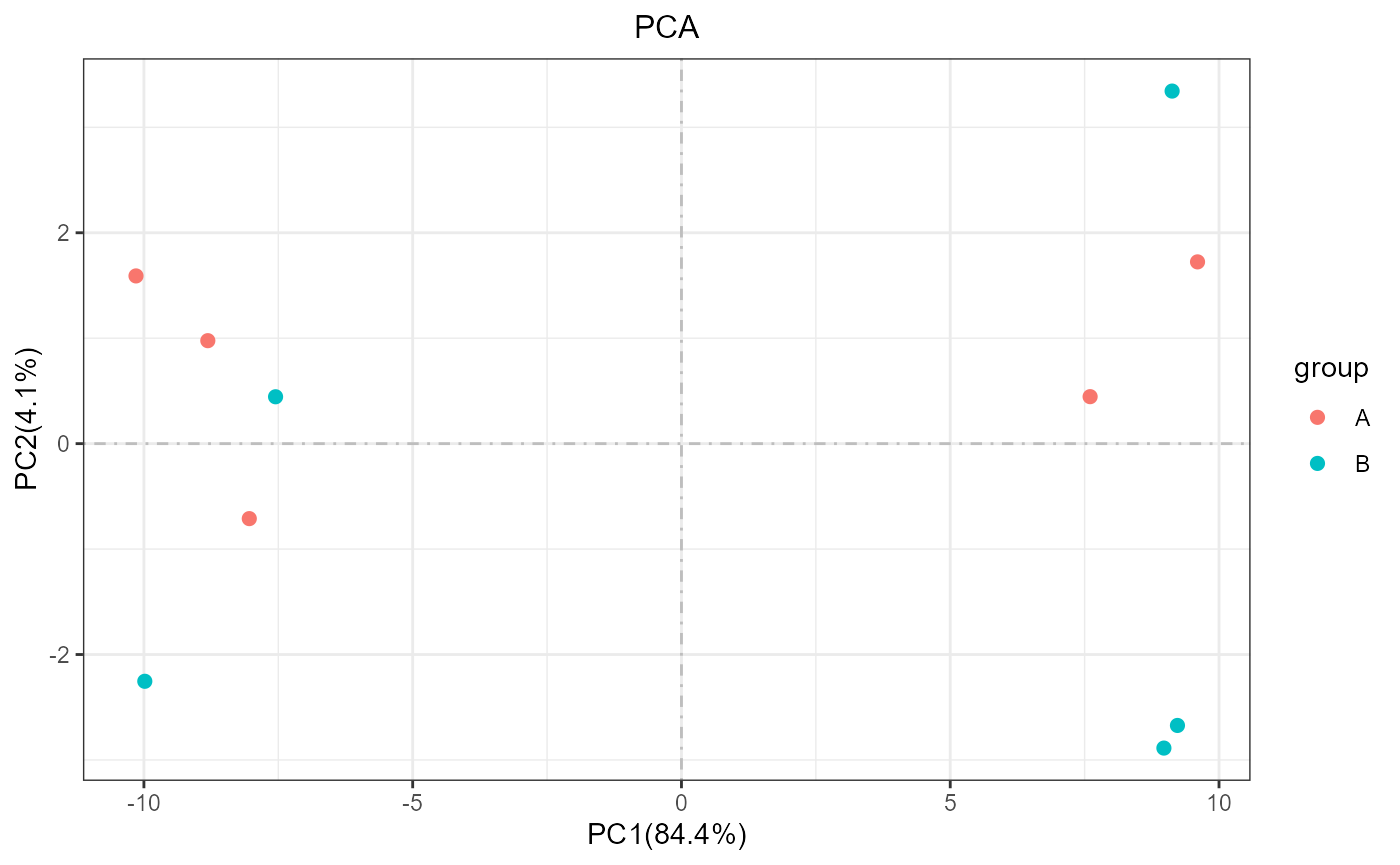
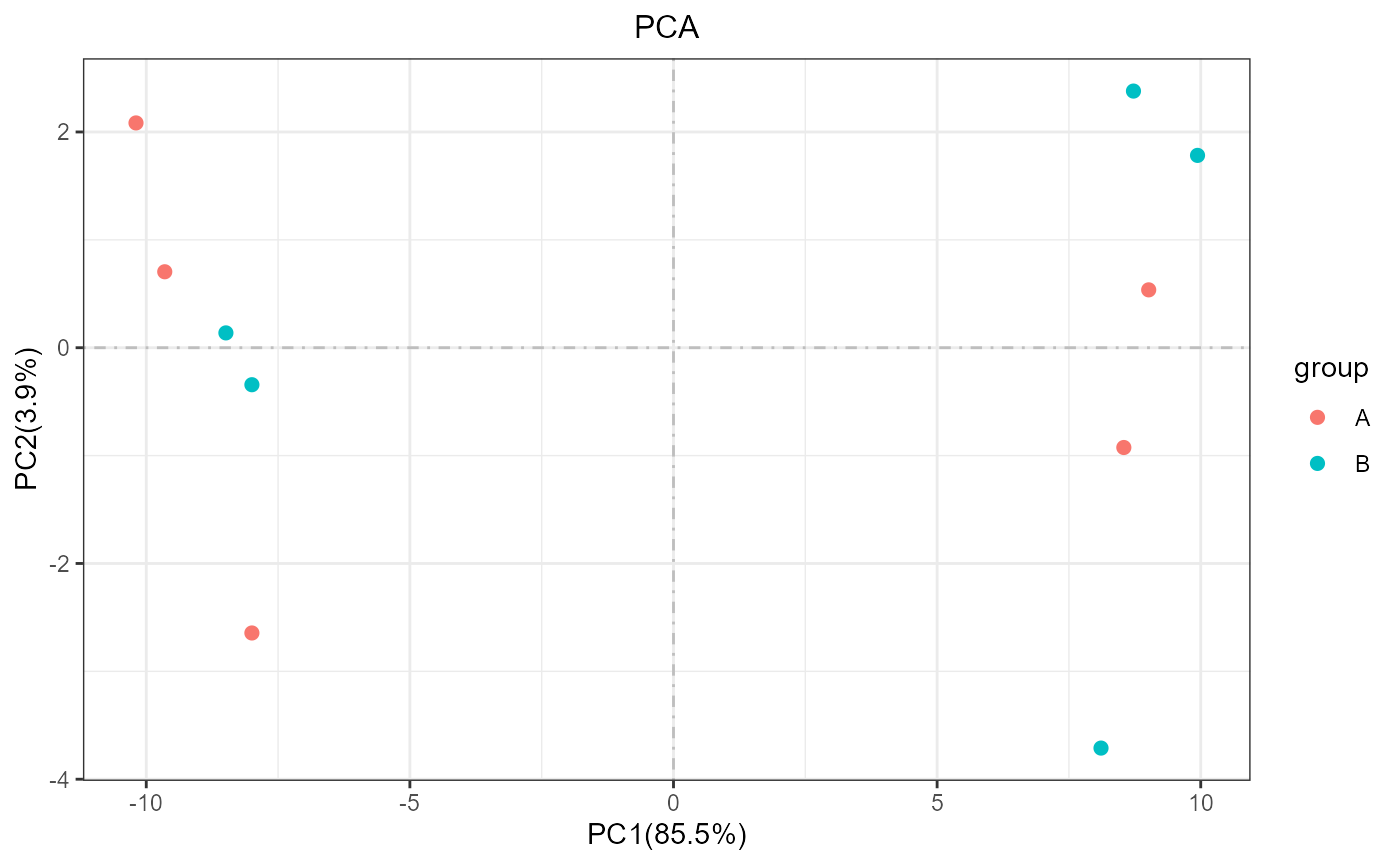
add the website by pkgdown

diff --git a/docs/articles/autopca.html b/docs/articles/autopca.html
@@ -6,6 +6,12 @@
 <meta http-equiv="X-UA-Compatible" content="IE=edge">
 <meta name="viewport" content="width=device-width, initial-scale=1.0">
 <title>autopca • autopca</title>
+<!-- favicons --><link rel="icon" type="image/png" sizes="16x16" href="../favicon-16x16.png">
+<link rel="icon" type="image/png" sizes="32x32" href="../favicon-32x32.png">
+<link rel="apple-touch-icon" type="image/png" sizes="180x180" href="../apple-touch-icon.png">
+<link rel="apple-touch-icon" type="image/png" sizes="120x120" href="../apple-touch-icon-120x120.png">
+<link rel="apple-touch-icon" type="image/png" sizes="76x76" href="../apple-touch-icon-76x76.png">
+<link rel="apple-touch-icon" type="image/png" sizes="60x60" href="../apple-touch-icon-60x60.png">
 <!-- jquery --><script src="https://cdnjs.cloudflare.com/ajax/libs/jquery/3.4.1/jquery.min.js" integrity="sha256-CSXorXvZcTkaix6Yvo6HppcZGetbYMGWSFlBw8HfCJo=" crossorigin="anonymous"></script><!-- Bootstrap --><link rel="stylesheet" href="https://cdnjs.cloudflare.com/ajax/libs/twitter-bootstrap/3.4.1/css/bootstrap.min.css" integrity="sha256-bZLfwXAP04zRMK2BjiO8iu9pf4FbLqX6zitd+tIvLhE=" crossorigin="anonymous">
 <script src="https://cdnjs.cloudflare.com/ajax/libs/twitter-bootstrap/3.4.1/js/bootstrap.min.js" integrity="sha256-nuL8/2cJ5NDSSwnKD8VqreErSWHtnEP9E7AySL+1ev4=" crossorigin="anonymous"></script><!-- bootstrap-toc --><link rel="stylesheet" href="../bootstrap-toc.css">
 <script src="../bootstrap-toc.js"></script><!-- Font Awesome icons --><link rel="stylesheet" href="https://cdnjs.cloudflare.com/ajax/libs/font-awesome/5.12.1/css/all.min.css" integrity="sha256-mmgLkCYLUQbXn0B1SRqzHar6dCnv9oZFPEC1g1cwlkk=" crossorigin="anonymous">
@@ -133,7 +139,7 @@ sample_group必须是tibble，要提取第二列</li>
 <span class="co">#&gt; 6          5.4         3.9          1.7         0.4  setosa</span></code></pre></div>
 <p>the rownames is every iris ID number, in iris, we want to demonstrate the proportion of each iris flower in terms of petal length and width and so on. That is we want, so for iris data, we just tidy a little for next analysis. Just like</p>
 <div class="sourceCode" id="cb3"><pre class="downlit sourceCode r">
-<code class="sourceCode R"><span class="kw"><a href="https://rdrr.io/r/base/library.html">library</a></span><span class="op">(</span><span class="va">autopca</span><span class="op">)</span>
+<code class="sourceCode R"><span class="kw"><a href="https://rdrr.io/r/base/library.html">library</a></span><span class="op">(</span><span class="va"><a href="https://wangjiaxuan666.github.io/autopca/">autopca</a></span><span class="op">)</span>
 <span class="co">#&gt; Registered S3 methods overwritten by 'ggalt':</span>
 <span class="co">#&gt;   method                  from   </span>
 <span class="co">#&gt;   grid.draw.absoluteGrob  ggplot2</span>
@@ -163,20 +169,20 @@ sample_group必须是tibble，要提取第二列</li>
 <span class="va">annot</span> <span class="op">&lt;-</span> <span class="fu"><a href="https://rdrr.io/r/base/c.html">c</a></span><span class="op">(</span><span class="fu"><a href="https://rdrr.io/r/base/rep.html">rep</a></span><span class="op">(</span><span class="st">"KEGG"</span>,<span class="fl">20</span><span class="op">)</span><span class="op">)</span>
 <span class="va">test</span> <span class="op">&lt;-</span> <span class="fu"><a href="https://rdrr.io/r/base/data.frame.html">data.frame</a></span><span class="op">(</span><span class="va">test</span>,<span class="va">annot</span><span class="op">)</span>
 <span class="fu"><a href="https://rdrr.io/r/utils/head.html">head</a></span><span class="op">(</span><span class="va">test</span><span class="op">)</span>
-<span class="co">#&gt;          Test1       Test2    Test3      Test4    Test5       Test6    Test7</span>
-<span class="co">#&gt; Gene1 4.291649  1.70574277 3.498262 -1.1874693 3.783874  0.05649316 3.391127</span>
-<span class="co">#&gt; Gene2 2.798869  0.64610490 2.594259 -1.5175268 2.351683 -1.74398649 4.618995</span>
-<span class="co">#&gt; Gene3 3.102504 -0.11499333 2.962186  0.1293812 3.392990 -1.30583740 3.024271</span>
-<span class="co">#&gt; Gene4 2.252334  0.47421214 2.546950 -1.6591297 4.725885 -1.66804499 3.216001</span>
-<span class="co">#&gt; Gene5 3.418433 -2.18411612 3.542779 -1.0304116 2.273971  0.02952300 1.938294</span>
-<span class="co">#&gt; Gene6 3.265256 -0.07776028 2.592512  0.2704961 4.317028 -0.60049798 3.417487</span>
-<span class="co">#&gt;            Test8    Test9     Test10 annot</span>
-<span class="co">#&gt; Gene1 -1.5181951 2.990443  0.7996601  KEGG</span>
-<span class="co">#&gt; Gene2  0.2909972 2.060165 -1.1016041  KEGG</span>
-<span class="co">#&gt; Gene3 -0.8010135 1.216073 -0.4500526  KEGG</span>
-<span class="co">#&gt; Gene4  1.0743875 3.979830  1.2794754  KEGG</span>
-<span class="co">#&gt; Gene5 -0.3119841 2.140349 -0.3129934  KEGG</span>
-<span class="co">#&gt; Gene6  0.6315125 1.964468  0.5889670  KEGG</span></code></pre></div>
+<span class="co">#&gt;          Test1      Test2    Test3       Test4    Test5       Test6    Test7</span>
+<span class="co">#&gt; Gene1 2.761865  0.8093437 2.910835 -0.55147314 2.981818  0.02986831 4.129516</span>
+<span class="co">#&gt; Gene2 3.012029  0.2021364 3.942120 -0.86557071 2.520596 -0.09600088 4.105236</span>
+<span class="co">#&gt; Gene3 3.235702  0.7171295 3.183174  0.23735420 3.525561  0.16928179 2.087716</span>
+<span class="co">#&gt; Gene4 0.271937 -0.8826715 2.974717 -0.02381401 3.313966 -0.80815937 3.299509</span>
+<span class="co">#&gt; Gene5 2.362170 -0.6089130 2.956533  0.84591955 3.793431  0.42218541 2.099652</span>
+<span class="co">#&gt; Gene6 3.980563 -1.0260322 2.403059 -1.79870458 2.678419  0.72724774 4.036874</span>
+<span class="co">#&gt;            Test8     Test9      Test10 annot</span>
+<span class="co">#&gt; Gene1 -0.3989877 2.9838882  1.17049329  KEGG</span>
+<span class="co">#&gt; Gene2  0.5989962 3.2255002 -0.87599396  KEGG</span>
+<span class="co">#&gt; Gene3 -0.5064056 3.6695715 -1.13876272  KEGG</span>
+<span class="co">#&gt; Gene4  1.0387806 3.2897270 -0.82772528  KEGG</span>
+<span class="co">#&gt; Gene5  0.3580267 3.7299110  0.15643901  KEGG</span>
+<span class="co">#&gt; Gene6 -1.7581223 0.9057865 -0.09497354  KEGG</span></code></pre></div>
 <p>Through the above steps, we obtained a classic transcriptome data frame. <strong>NOW WE explain the sample variance in PC. So we need tidy the data by the function<code>pca_data_tidy</code>.</strong></p>
 <div class="sourceCode" id="cb6"><pre class="downlit sourceCode r">
 <code class="sourceCode R"><span class="fu"><a href="../reference/pca_data_tidy.html">pca_data_tidy</a></span><span class="op">(</span><span class="fu"><a href="https://rdrr.io/r/base/as.data.frame.html">as.data.frame</a></span><span class="op">(</span><span class="va">test</span><span class="op">)</span><span class="op">)</span> <span class="op">-&gt;</span> <span class="va">test_tidy</span>

diff --git a/docs/news/index.html b/docs/news/index.html
@@ -6,15 +6,15 @@
 <meta http-equiv="X-UA-Compatible" content="IE=edge">
 <meta name="viewport" content="width=device-width, initial-scale=1.0">
 
-<title>License • autopca</title>
+<title>Changelog • autopca</title>
 
 <!-- favicons -->
-<link rel="icon" type="image/png" sizes="16x16" href="favicon-16x16.png">
-<link rel="icon" type="image/png" sizes="32x32" href="favicon-32x32.png">
-<link rel="apple-touch-icon" type="image/png" sizes="180x180" href="apple-touch-icon.png" />
-<link rel="apple-touch-icon" type="image/png" sizes="120x120" href="apple-touch-icon-120x120.png" />
-<link rel="apple-touch-icon" type="image/png" sizes="76x76" href="apple-touch-icon-76x76.png" />
-<link rel="apple-touch-icon" type="image/png" sizes="60x60" href="apple-touch-icon-60x60.png" />
+<link rel="icon" type="image/png" sizes="16x16" href="../favicon-16x16.png">
+<link rel="icon" type="image/png" sizes="32x32" href="../favicon-32x32.png">
+<link rel="apple-touch-icon" type="image/png" sizes="180x180" href="../apple-touch-icon.png" />
+<link rel="apple-touch-icon" type="image/png" sizes="120x120" href="../apple-touch-icon-120x120.png" />
+<link rel="apple-touch-icon" type="image/png" sizes="76x76" href="../apple-touch-icon-76x76.png" />
+<link rel="apple-touch-icon" type="image/png" sizes="60x60" href="../apple-touch-icon-60x60.png" />
 
 <!-- jquery -->
 <script src="https://cdnjs.cloudflare.com/ajax/libs/jquery/3.4.1/jquery.min.js" integrity="sha256-CSXorXvZcTkaix6Yvo6HppcZGetbYMGWSFlBw8HfCJo=" crossorigin="anonymous"></script>
@@ -25,8 +25,8 @@
 <script src="https://cdnjs.cloudflare.com/ajax/libs/twitter-bootstrap/3.4.1/js/bootstrap.min.js" integrity="sha256-nuL8/2cJ5NDSSwnKD8VqreErSWHtnEP9E7AySL+1ev4=" crossorigin="anonymous"></script>
 
 <!-- bootstrap-toc -->
-<link rel="stylesheet" href="bootstrap-toc.css">
-<script src="bootstrap-toc.js"></script>
+<link rel="stylesheet" href="../bootstrap-toc.css">
+<script src="../bootstrap-toc.js"></script>
 
 <!-- Font Awesome icons -->
 <link rel="stylesheet" href="https://cdnjs.cloudflare.com/ajax/libs/font-awesome/5.12.1/css/all.min.css" integrity="sha256-mmgLkCYLUQbXn0B1SRqzHar6dCnv9oZFPEC1g1cwlkk=" crossorigin="anonymous" />
@@ -40,13 +40,13 @@
 <script src="https://cdnjs.cloudflare.com/ajax/libs/headroom/0.11.0/jQuery.headroom.min.js" integrity="sha256-ZX/yNShbjqsohH1k95liqY9Gd8uOiE1S4vZc+9KQ1K4=" crossorigin="anonymous"></script>
 
 <!-- pkgdown -->
-<link href="pkgdown.css" rel="stylesheet">
-<script src="pkgdown.js"></script>
+<link href="../pkgdown.css" rel="stylesheet">
+<script src="../pkgdown.js"></script>
 
 
 
 
-<meta property="og:title" content="License" />
+<meta property="og:title" content="Changelog" />
 
 
 
@@ -67,7 +67,7 @@
   </head>
 
   <body data-spy="scroll" data-target="#toc">
-    <div class="container template-title-body">
+    <div class="container template-news">
       <header>
       <div class="navbar navbar-default navbar-fixed-top" role="navigation">
   <div class="container">
@@ -79,7 +79,7 @@
         <span class="icon-bar"></span>
       </button>
       <span class="navbar-brand">
-        <a class="navbar-link" href="index.html">autopca</a>
+        <a class="navbar-link" href="../index.html">autopca</a>
         <span class="version label label-default" data-toggle="tooltip" data-placement="bottom" title="Released version">0.1.900</span>
       </span>
     </div>
@@ -87,13 +87,13 @@
     <div id="navbar" class="navbar-collapse collapse">
       <ul class="nav navbar-nav">
         <li>
-  <a href="articles/autopca.html">Get started</a>
+  <a href="../articles/autopca.html">Get started</a>
 </li>
 <li>
-  <a href="reference/index.html">Reference</a>
+  <a href="../reference/index.html">Reference</a>
 </li>
 <li>
-  <a href="news/index.html">Changelog</a>
+  <a href="../news/index.html">Changelog</a>
 </li>
       </ul>
       <ul class="nav navbar-nav navbar-right">
@@ -114,14 +114,11 @@
       </header>
 
 <div class="row">
-  <div class="contents col-md-9">
+  <div class="col-md-9 contents">
     <div class="page-header">
-      <h1>License</h1>
+      <h1 data-toc-skip>Changelog <small></small></h1>
+      <small>Source: <a href='https://github.com/wangjiaxuan666/autopca/blob/master/NEWS.md'><code>NEWS.md</code></a></small>
     </div>
-
-<pre>YEAR: 2020
-COPYRIGHT HOLDER: Jiaxuan Wang
-</pre>
 
   </div>
 
@@ -132,7 +129,6 @@ COPYRIGHT HOLDER: Jiaxuan Wang
   </div>
 
 </div>
-
 
 
       <footer>

diff --git a/docs/reference/pca.html b/docs/reference/pca.html
@@ -8,6 +8,13 @@
 
 <title>PCA plot — pca • autopca</title>
 
+<!-- favicons -->
+<link rel="icon" type="image/png" sizes="16x16" href="../favicon-16x16.png">
+<link rel="icon" type="image/png" sizes="32x32" href="../favicon-32x32.png">
+<link rel="apple-touch-icon" type="image/png" sizes="180x180" href="../apple-touch-icon.png" />
+<link rel="apple-touch-icon" type="image/png" sizes="120x120" href="../apple-touch-icon-120x120.png" />
+<link rel="apple-touch-icon" type="image/png" sizes="76x76" href="../apple-touch-icon-76x76.png" />
+<link rel="apple-touch-icon" type="image/png" sizes="60x60" href="../apple-touch-icon-60x60.png" />
 
 <!-- jquery -->
 <script src="https://cdnjs.cloudflare.com/ajax/libs/jquery/3.4.1/jquery.min.js" integrity="sha256-CSXorXvZcTkaix6Yvo6HppcZGetbYMGWSFlBw8HfCJo=" crossorigin="anonymous"></script>
@@ -201,7 +208,7 @@ example. the default is "polygon".</p></td>
     <p>a ggplot object</p>
 
     <h2 class="hasAnchor" id="examples"><a class="anchor" href="#examples"></a>Examples</h2>
-    <pre class="examples"><div class='input'><span class='kw'><a href='https://rdrr.io/r/base/library.html'>library</a></span><span class='op'>(</span><span class='va'>autopca</span><span class='op'>)</span>
+    <pre class="examples"><div class='input'><span class='kw'><a href='https://rdrr.io/r/base/library.html'>library</a></span><span class='op'>(</span><span class='va'><a href='https://wangjiaxuan666.github.io/autopca/'>autopca</a></span><span class='op'>)</span>
 <span class='fu'>pca</span><span class='op'>(</span><span class='va'>iris</span><span class='op'>[</span>,<span class='op'>-</span><span class='fl'>5</span><span class='op'>]</span>,sample_group <span class='op'>=</span> <span class='fu'><a href='https://rdrr.io/r/base/as.data.frame.html'>as.data.frame</a></span><span class='op'>(</span><span class='va'>iris</span><span class='op'>[</span>,<span class='fl'>5</span><span class='op'>]</span><span class='op'>)</span><span class='op'>)</span>
 </div><div class='img'><img src='pca-1.png' alt='' width='700' height='433' /></div><div class='input'><span class='fu'>pca</span><span class='op'>(</span><span class='va'>iris</span><span class='op'>[</span>,<span class='op'>-</span><span class='fl'>5</span><span class='op'>]</span>,sample_group <span class='op'>=</span> <span class='fu'><a href='https://rdrr.io/r/base/as.data.frame.html'>as.data.frame</a></span><span class='op'>(</span><span class='va'>iris</span><span class='op'>[</span>,<span class='fl'>5</span><span class='op'>]</span><span class='op'>)</span>,add_ploy <span class='op'>=</span> <span class='st'>"ellipse"</span><span class='op'>)</span>
 </div><div class='img'><img src='pca-2.png' alt='' width='700' height='433' /></div><div class='input'><span class='fu'>pca</span><span class='op'>(</span><span class='va'>iris</span><span class='op'>[</span>,<span class='op'>-</span><span class='fl'>5</span><span class='op'>]</span>,sample_group <span class='op'>=</span> <span class='fu'><a href='https://rdrr.io/r/base/as.data.frame.html'>as.data.frame</a></span><span class='op'>(</span><span class='va'>iris</span><span class='op'>[</span>,<span class='fl'>5</span><span class='op'>]</span><span class='op'>)</span>,add_ploy <span class='op'>=</span> <span class='st'>"encircle"</span><span class='op'>)</span>

diff --git a/docs/index.html b/docs/index.html
@@ -6,6 +6,12 @@
 <meta http-equiv="X-UA-Compatible" content="IE=edge">
 <meta name="viewport" content="width=device-width, initial-scale=1.0">
 <title>the packages created for draw pca plot more easily. • autopca</title>
+<!-- favicons --><link rel="icon" type="image/png" sizes="16x16" href="favicon-16x16.png">
+<link rel="icon" type="image/png" sizes="32x32" href="favicon-32x32.png">
+<link rel="apple-touch-icon" type="image/png" sizes="180x180" href="apple-touch-icon.png">
+<link rel="apple-touch-icon" type="image/png" sizes="120x120" href="apple-touch-icon-120x120.png">
+<link rel="apple-touch-icon" type="image/png" sizes="76x76" href="apple-touch-icon-76x76.png">
+<link rel="apple-touch-icon" type="image/png" sizes="60x60" href="apple-touch-icon-60x60.png">
 <!-- jquery --><script src="https://cdnjs.cloudflare.com/ajax/libs/jquery/3.4.1/jquery.min.js" integrity="sha256-CSXorXvZcTkaix6Yvo6HppcZGetbYMGWSFlBw8HfCJo=" crossorigin="anonymous"></script><!-- Bootstrap --><link rel="stylesheet" href="https://cdnjs.cloudflare.com/ajax/libs/twitter-bootstrap/3.4.1/css/bootstrap.min.css" integrity="sha256-bZLfwXAP04zRMK2BjiO8iu9pf4FbLqX6zitd+tIvLhE=" crossorigin="anonymous">
 <script src="https://cdnjs.cloudflare.com/ajax/libs/twitter-bootstrap/3.4.1/js/bootstrap.min.js" integrity="sha256-nuL8/2cJ5NDSSwnKD8VqreErSWHtnEP9E7AySL+1ev4=" crossorigin="anonymous"></script><!-- bootstrap-toc --><link rel="stylesheet" href="bootstrap-toc.css">
 <script src="bootstrap-toc.js"></script><!-- Font Awesome icons --><link rel="stylesheet" href="https://cdnjs.cloudflare.com/ajax/libs/font-awesome/5.12.1/css/all.min.css" integrity="sha256-mmgLkCYLUQbXn0B1SRqzHar6dCnv9oZFPEC1g1cwlkk=" crossorigin="anonymous">
@@ -107,7 +113,7 @@
 <span class="co">#&gt; 6          5.4         3.9          1.7         0.4  setosa</span></code></pre></div>
 <p>the rownames is every iris ID number, in iris, we want to demonstrate the proportion of each iris flower in terms of petal length and width and so on. That is we want, so for iris data, we just tidy a little for next analysis. Just like</p>
 <div class="sourceCode" id="cb3"><pre class="downlit sourceCode r">
-<code class="sourceCode R"><span class="kw"><a href="https://rdrr.io/r/base/library.html">library</a></span><span class="op">(</span><span class="va">autopca</span><span class="op">)</span>
+<code class="sourceCode R"><span class="kw"><a href="https://rdrr.io/r/base/library.html">library</a></span><span class="op">(</span><span class="va"><a href="https://wangjiaxuan666.github.io/autopca/">autopca</a></span><span class="op">)</span>
 <span class="kw"><a href="https://rdrr.io/r/base/library.html">library</a></span><span class="op">(</span><span class="va"><a href="https://patchwork.data-imaginist.com">patchwork</a></span><span class="op">)</span>
 <span class="va">irisgroup</span> <span class="op">&lt;-</span> <span class="va">iris</span><span class="op">[</span>,<span class="fl">5</span><span class="op">]</span> 
 <span class="va">iristidy</span> <span class="op">&lt;-</span> <span class="va">iris</span><span class="op">[</span>,<span class="op">-</span><span class="fl">5</span><span class="op">]</span>

diff --git a/docs/reference/index.html b/docs/reference/index.html
@@ -8,6 +8,13 @@
 
 <title>Function reference • autopca</title>
 
+<!-- favicons -->
+<link rel="icon" type="image/png" sizes="16x16" href="../favicon-16x16.png">
+<link rel="icon" type="image/png" sizes="32x32" href="../favicon-32x32.png">
+<link rel="apple-touch-icon" type="image/png" sizes="180x180" href="../apple-touch-icon.png" />
+<link rel="apple-touch-icon" type="image/png" sizes="120x120" href="../apple-touch-icon-120x120.png" />
+<link rel="apple-touch-icon" type="image/png" sizes="76x76" href="../apple-touch-icon-76x76.png" />
+<link rel="apple-touch-icon" type="image/png" sizes="60x60" href="../apple-touch-icon-60x60.png" />
 
 <!-- jquery -->
 <script src="https://cdnjs.cloudflare.com/ajax/libs/jquery/3.4.1/jquery.min.js" integrity="sha256-CSXorXvZcTkaix6Yvo6HppcZGetbYMGWSFlBw8HfCJo=" crossorigin="anonymous"></script>
@@ -123,8 +130,27 @@
     <tbody>
       <tr>
         <th colspan="2">
-          <h2 id="section-all-functions" class="hasAnchor"><a href="#section-all-functions" class="anchor"></a>All functions</h2>
-          <p class="section-desc"></p>
+          <h2 id="section-tidy-data" class="hasAnchor"><a href="#section-tidy-data" class="anchor"></a>Tidy data</h2>
+          <p class="section-desc"><p>Transform the data form expression data(column:sample and row:gene) to a transpose matrix(column:gene,row:sample)</p></p>
+        </th>
+      </tr>
+      
+      
+    </tbody><tbody>
+      
+      
+      <tr>
+        
+        <td>
+          <p><code><a href="pca_data_tidy.html">pca_data_tidy()</a></code> </p>
+        </td>
+        <td><p>the Principal Components Analysis need the data must be transformed</p></td>
+      </tr>
+    </tbody><tbody>
+      <tr>
+        <th colspan="2">
+          <h2 id="section-plot" class="hasAnchor"><a href="#section-plot" class="anchor"></a>Plot</h2>
+          <p class="section-desc"><p>draw the plot one step</p></p>
         </th>
       </tr>
       
@@ -138,12 +164,6 @@
           <p><code><a href="pca.html">pca()</a></code> </p>
         </td>
         <td><p>PCA plot</p></td>
-      </tr><tr>
-        
-        <td>
-          <p><code><a href="pca_data_tidy.html">pca_data_tidy()</a></code> </p>
-        </td>
-        <td><p>the Principal Components Analysis need the data must be transformed</p></td>
       </tr>
     </tbody>
     </table>

diff --git a/docs/articles/index.html b/docs/articles/index.html
@@ -8,6 +8,13 @@
 
 <title>Articles • autopca</title>
 
+<!-- favicons -->
+<link rel="icon" type="image/png" sizes="16x16" href="../favicon-16x16.png">
+<link rel="icon" type="image/png" sizes="32x32" href="../favicon-32x32.png">
+<link rel="apple-touch-icon" type="image/png" sizes="180x180" href="../apple-touch-icon.png" />
+<link rel="apple-touch-icon" type="image/png" sizes="120x120" href="../apple-touch-icon-120x120.png" />
+<link rel="apple-touch-icon" type="image/png" sizes="76x76" href="../apple-touch-icon-76x76.png" />
+<link rel="apple-touch-icon" type="image/png" sizes="60x60" href="../apple-touch-icon-60x60.png" />
 
 <!-- jquery -->
 <script src="https://cdnjs.cloudflare.com/ajax/libs/jquery/3.4.1/jquery.min.js" integrity="sha256-CSXorXvZcTkaix6Yvo6HppcZGetbYMGWSFlBw8HfCJo=" crossorigin="anonymous"></script>
@@ -113,7 +120,7 @@
     </div>
 
     <div class="section ">
-      <h3>All vignettes</h3>
+      <h3>Vignettes</h3>
       <p class="section-desc"></p>
 
       <dl>

diff --git a/docs/reference/pca_data_tidy.html b/docs/reference/pca_data_tidy.html
@@ -8,6 +8,13 @@
 
 <title>the Principal Components Analysis need the data must be transformed — pca_data_tidy • autopca</title>
 
+<!-- favicons -->
+<link rel="icon" type="image/png" sizes="16x16" href="../favicon-16x16.png">
+<link rel="icon" type="image/png" sizes="32x32" href="../favicon-32x32.png">
+<link rel="apple-touch-icon" type="image/png" sizes="180x180" href="../apple-touch-icon.png" />
+<link rel="apple-touch-icon" type="image/png" sizes="120x120" href="../apple-touch-icon-120x120.png" />
+<link rel="apple-touch-icon" type="image/png" sizes="76x76" href="../apple-touch-icon-76x76.png" />
+<link rel="apple-touch-icon" type="image/png" sizes="60x60" href="../apple-touch-icon-60x60.png" />
 
 <!-- jquery -->
 <script src="https://cdnjs.cloudflare.com/ajax/libs/jquery/3.4.1/jquery.min.js" integrity="sha256-CSXorXvZcTkaix6Yvo6HppcZGetbYMGWSFlBw8HfCJo=" crossorigin="anonymous"></script>

diff --git a/docs/404.html b/docs/404.html
@@ -8,6 +8,13 @@
 
 <title>Page not found (404) • autopca</title>
 
+<!-- favicons -->
+<link rel="icon" type="image/png" sizes="16x16" href="favicon-16x16.png">
+<link rel="icon" type="image/png" sizes="32x32" href="favicon-32x32.png">
+<link rel="apple-touch-icon" type="image/png" sizes="180x180" href="apple-touch-icon.png" />
+<link rel="apple-touch-icon" type="image/png" sizes="120x120" href="apple-touch-icon-120x120.png" />
+<link rel="apple-touch-icon" type="image/png" sizes="76x76" href="apple-touch-icon-76x76.png" />
+<link rel="apple-touch-icon" type="image/png" sizes="60x60" href="apple-touch-icon-60x60.png" />
 
 <!-- jquery -->
 <script src="https://cdnjs.cloudflare.com/ajax/libs/jquery/3.4.1/jquery.min.js" integrity="sha256-CSXorXvZcTkaix6Yvo6HppcZGetbYMGWSFlBw8HfCJo=" crossorigin="anonymous"></script>

diff --git a/docs/LICENSE.html b/docs/LICENSE.html
@@ -8,6 +8,13 @@
 
 <title>MIT License • autopca</title>
 
+<!-- favicons -->
+<link rel="icon" type="image/png" sizes="16x16" href="favicon-16x16.png">
+<link rel="icon" type="image/png" sizes="32x32" href="favicon-32x32.png">
+<link rel="apple-touch-icon" type="image/png" sizes="180x180" href="apple-touch-icon.png" />
+<link rel="apple-touch-icon" type="image/png" sizes="120x120" href="apple-touch-icon-120x120.png" />
+<link rel="apple-touch-icon" type="image/png" sizes="76x76" href="apple-touch-icon-76x76.png" />
+<link rel="apple-touch-icon" type="image/png" sizes="60x60" href="apple-touch-icon-60x60.png" />
 
 <!-- jquery -->
 <script src="https://cdnjs.cloudflare.com/ajax/libs/jquery/3.4.1/jquery.min.js" integrity="sha256-CSXorXvZcTkaix6Yvo6HppcZGetbYMGWSFlBw8HfCJo=" crossorigin="anonymous"></script>

diff --git a/docs/authors.html b/docs/authors.html
@@ -8,6 +8,13 @@
 
 <title>Authors • autopca</title>
 
+<!-- favicons -->
+<link rel="icon" type="image/png" sizes="16x16" href="favicon-16x16.png">
+<link rel="icon" type="image/png" sizes="32x32" href="favicon-32x32.png">
+<link rel="apple-touch-icon" type="image/png" sizes="180x180" href="apple-touch-icon.png" />
+<link rel="apple-touch-icon" type="image/png" sizes="120x120" href="apple-touch-icon-120x120.png" />
+<link rel="apple-touch-icon" type="image/png" sizes="76x76" href="apple-touch-icon-76x76.png" />
+<link rel="apple-touch-icon" type="image/png" sizes="60x60" href="apple-touch-icon-60x60.png" />
 
 <!-- jquery -->
 <script src="https://cdnjs.cloudflare.com/ajax/libs/jquery/3.4.1/jquery.min.js" integrity="sha256-CSXorXvZcTkaix6Yvo6HppcZGetbYMGWSFlBw8HfCJo=" crossorigin="anonymous"></script>

diff --git a/NEWS.md b/NEWS.md
@@ -1,13 +1,6 @@
-### fix bug 20201211
+# autopca 0.0.900
 
-- [x] pca(dat) :Error in if (sample_group == FALSE) { : 参数长度为零
-- [x] sample_group必须是tibble，要提取第二列
-- [x] 要加上一个注释说明，str_group必须在str_sample已经更改的基础上修改
+* pca function parameter `add_ploy` change to one character of 
+  ellipse","encircle","polygon". the plot see the example.
 
-### complete the function of add ploy line in pca plot
-
-- [x] pca function parameter `add_ploy` change to one character of ellipse","encircle","polygon". the plot see the example.
-
-
-
-
+* use `pkgdown` creat a website for introduce this R packages.
